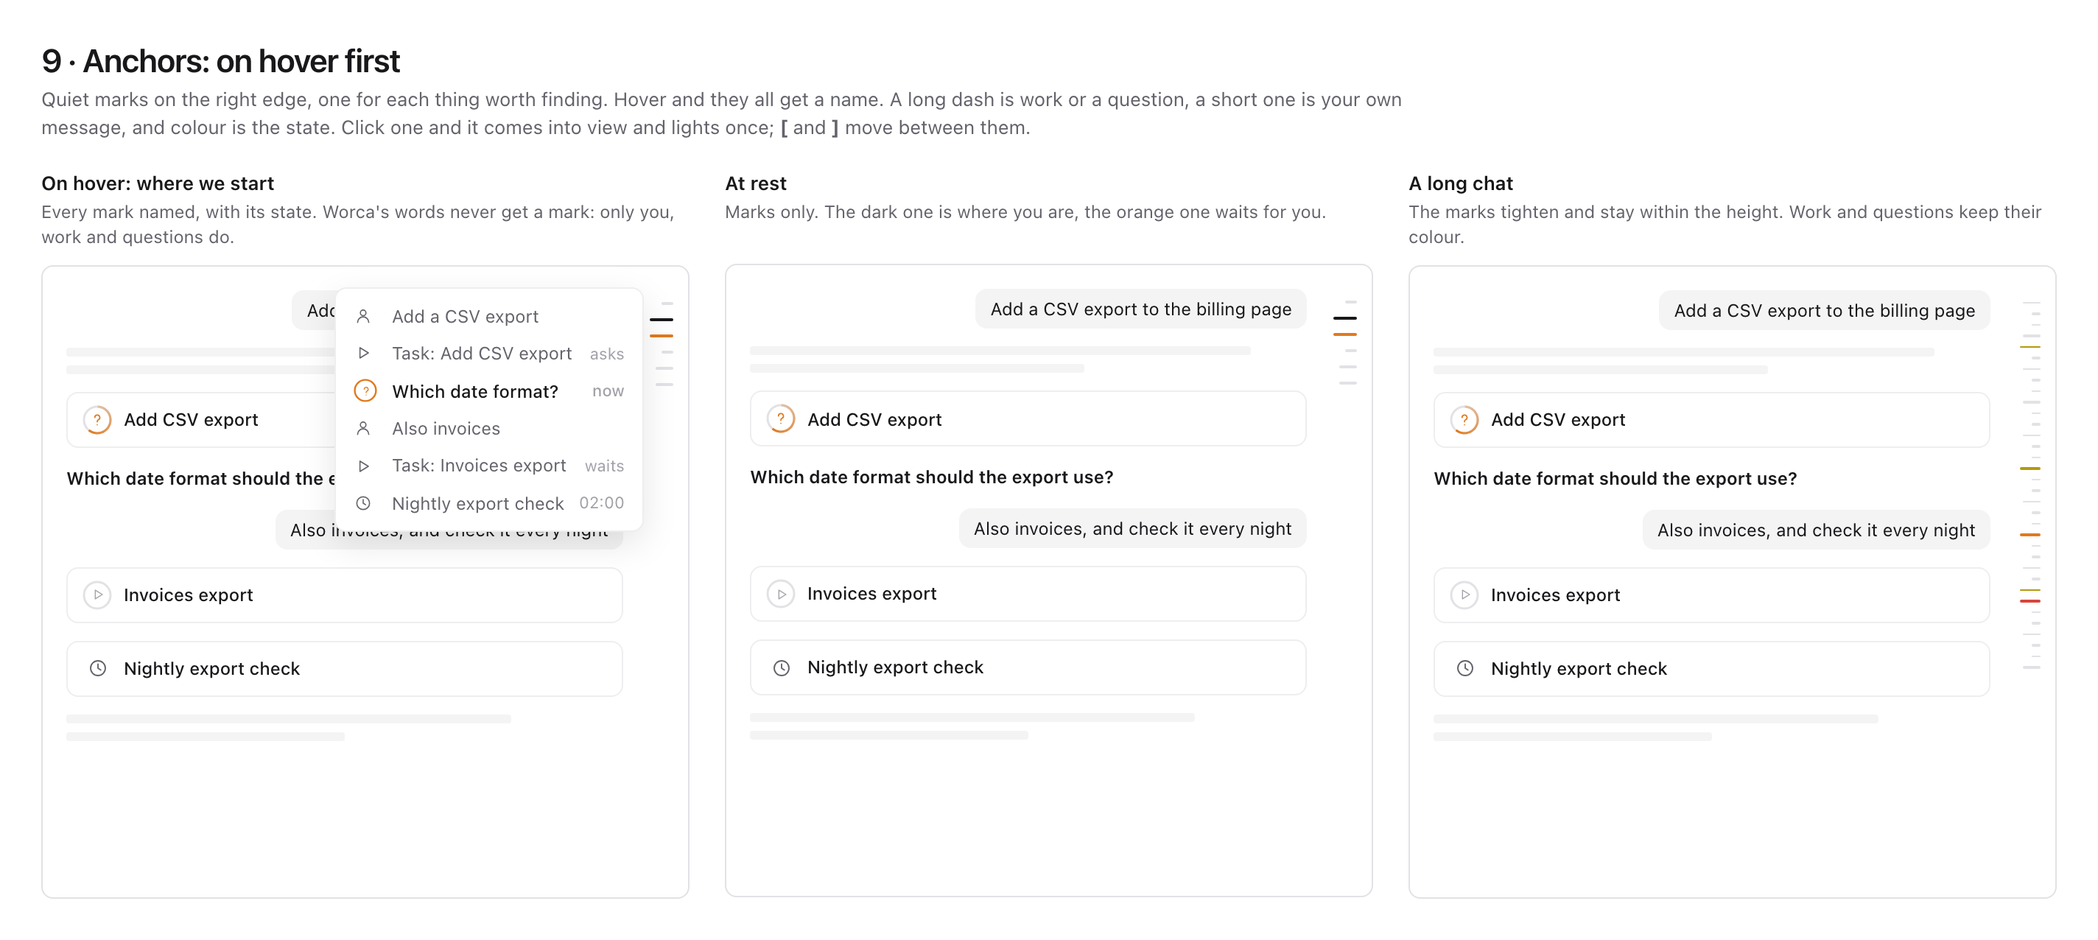
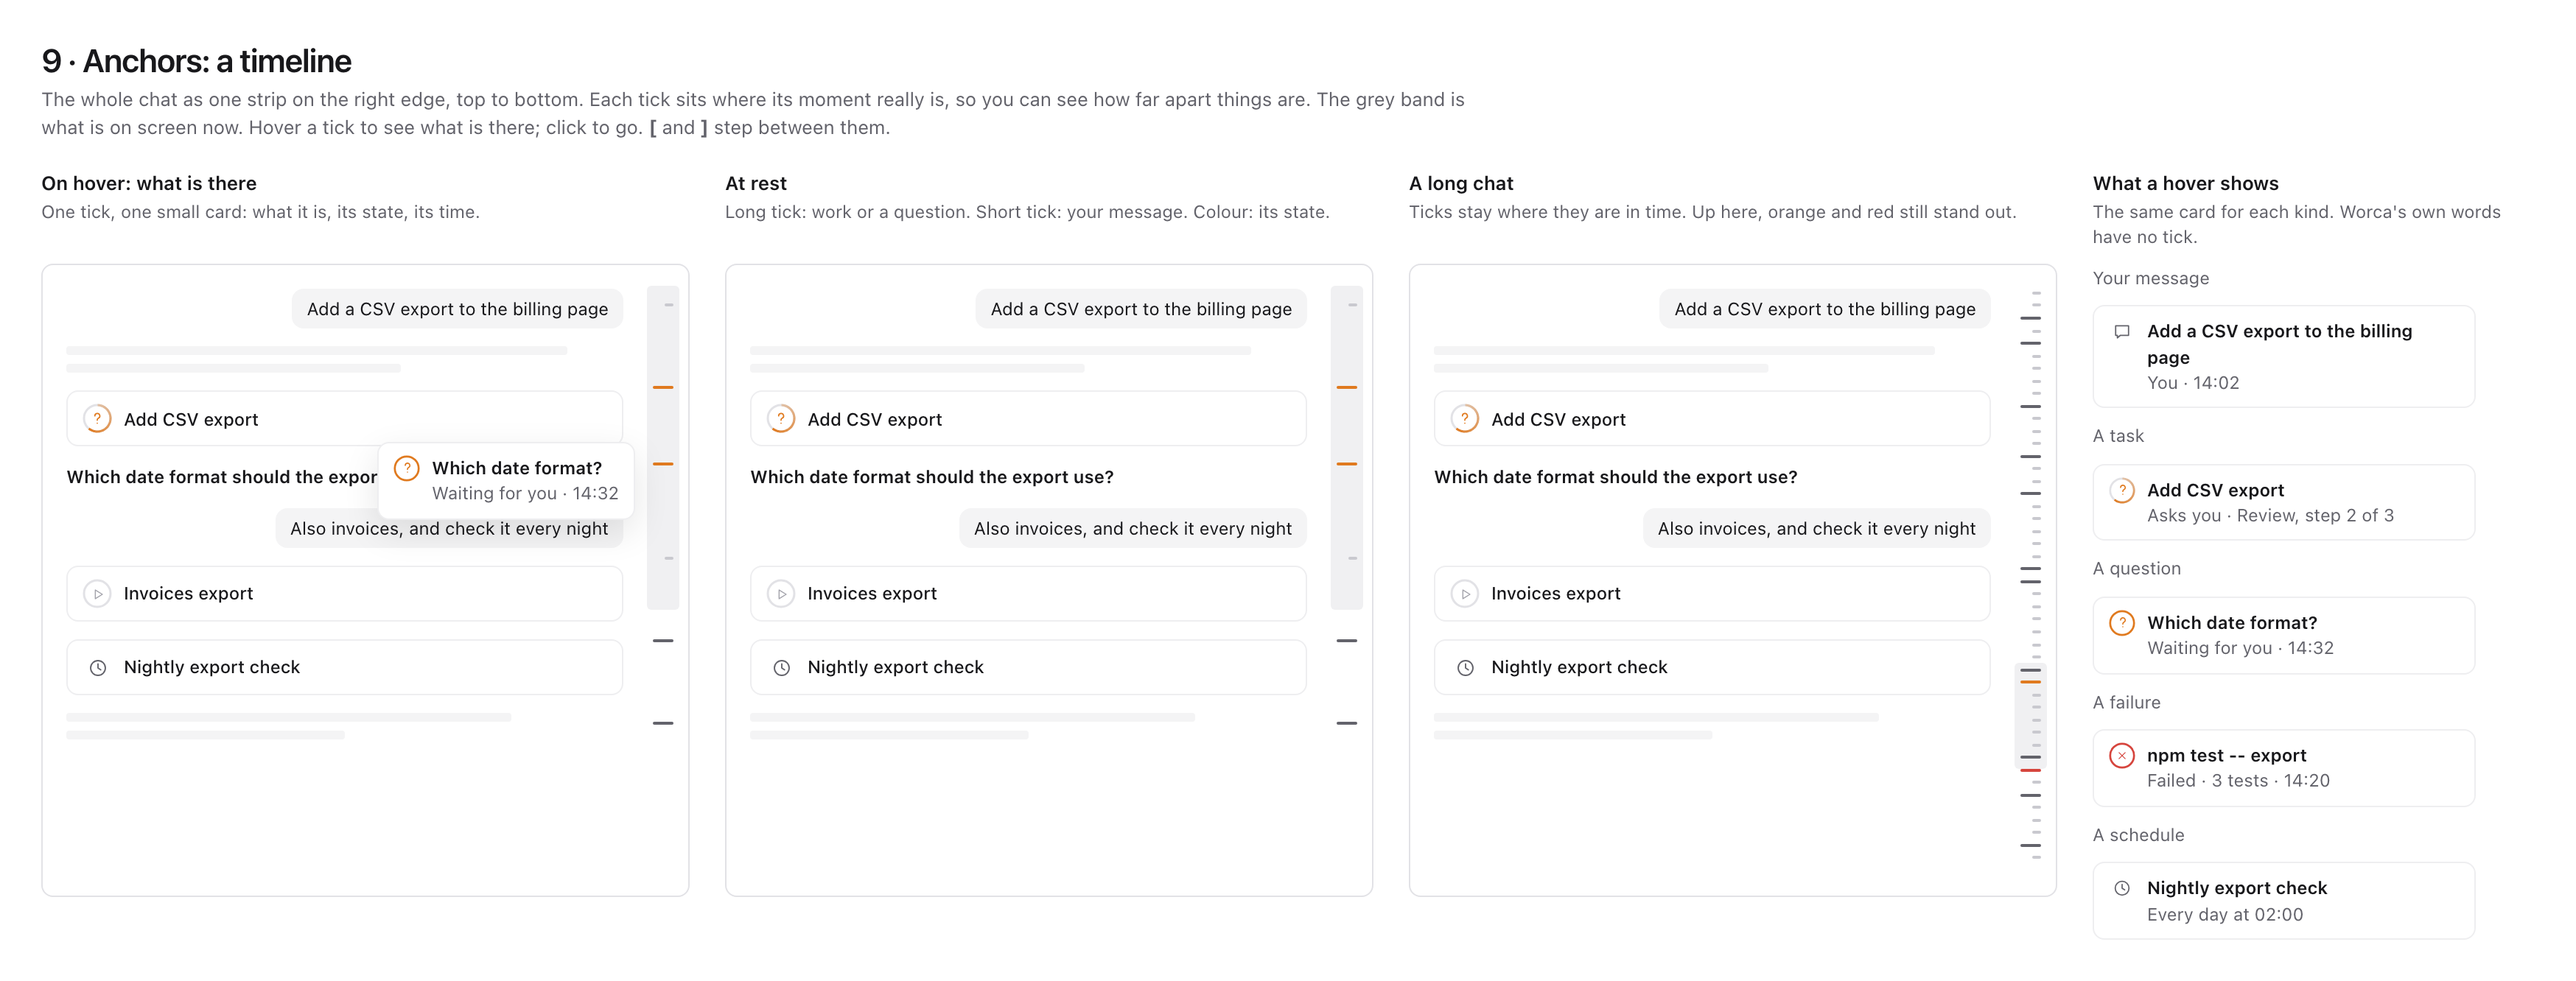
Shaping: anchors become a timeline, with a card on hover

diff --git a/plans/rail/mocks/wave-2/mock.js b/plans/rail/mocks/wave-2/mock.js
@@ -40,6 +40,9 @@ const chatBody=(cur)=>gh('Needs you',2)+row({mark:mark('chat','ask',-2),t:'Billi
  +row({mark:mark('chat'),t:'Compare two queue libraries',m:'No project',e:'Sat'});
 const stepper=(cur,col)=>`<div class="st">${['','','','',''].map((_,n)=>`<i ${n<=cur?`style="background:color-mix(in srgb, var(--${col==='a'?'amber':'peach'}) ${Math.round((.3+.7*(n+1)/(cur+1))*100)}%, var(--line-2))"`:''}></i>`).join('')}</div><div class="stl">${['Plan','Build','Review','PR','Merged'].map((s,n)=>n===cur?`<b>${s}</b>`:`<span>${s}</span>`).join('')}</div>`;
 const page=(t,s,b)=>`<h1 class="t">${t}</h1><p class="s">${s}</p>${b}`;
+
+const tl=(t,view,top=60,bottom=14)=>`<div class="tl" style="top:${top}px;bottom:${bottom}px"><span class="vw" style="top:${view[0]}%;height:${view[1]}%"></span>${t.map(([p,c])=>`<i class="${c}" style="top:${p}%"></i>`).join('')}</div>`;
+const hv=(top,right,m,t,d)=>`<div class="hv" style="top:${top}px;right:${right}px"><span>${m}</span><span><b>${t}</b><div>${d}</div></span></div>`;
 const M={};
 M[1]=()=>{const H=800;
  const homeBody=gh('Back to')+row({mark:mark('chat','ask',-2),t:'Billing CSV export',m:'billing-api · asks you',e:'14:32'})+row({mark:mark('workflow'),t:'Lean workflow',m:'Edited yesterday'})
@@ -51,8 +54,7 @@ M[1]=()=>{const H=800;
  return page('1 · One bar for every feature','Today: a places bar, plus a Chats column beside it. Here there is one bar, and Settings already works this way. The house at the top leads home; everything else behaves the same: head, what it shows, a list with groups, you.',
  `<div class="cols">`+col('Home','The house, pressed: where you were, then places',bar({solo:1,h:H,homeOn:1,title:'Worca',body:homeBody}))+col('Chat','Where you start. Opens here','<div>'+bar({solo:1,h:H,title:'Chat',act:'plus',sent:SA,body:chatBody(1)})+'</div>')+col('Settings','Unchanged, with the house for Back',bar({solo:1,h:H,title:'Settings',body:set}))+col('Schedules · Expert','Any list takes the same bar',bar({solo:1,h:H,title:'Schedules',act:'plus',sent:sent(['~Showing','all','~from','all projects','~by','next']),body:sch}))+`</div>`);};
 M[2]=()=>{
- const anchors=[['you','Add a CSV export',''],['run','Task: Add CSV export','asks'],['ask','Which date format?','now'],['you','Also invoices',''],['run','Task: Invoices export','waits'],['schedule','Nightly export check','02:00']];
- const an=`<div class="an"><i class="y"></i><i class="a"></i><i class="a cur" style="background:var(--amber);width:18px"></i><i class="y"></i><i></i><i></i></div><div class="ap">${anchors.map(a=>`<div class="ar ${a[0]==='ask'?'ask cur':''}">${a[0]==='you'?i('you',13):a[0]==='ask'?mark('chat','ask',-2,16):a[0]==='run'?i('run',13):i('schedule',13)}<span>${a[1]}</span><span class="en">${a[2]}</span></div>`).join('')}</div>`;
+ const an=tl([[3,'y'],[14,'a'],[30,'a'],[52,'y'],[66,'w'],[80,'w']],[0,62])+hv(150,34,mark('chat','ask',-2),'Which date format?','Add CSV export asks you · 14:32');
  const conv=`<div class="conv"><div class="col"><div class="ch"><span>billing-api</span>·<span class="lb">${i('tag',10)}hotfix</span><span class="lb">${i('tag',10)}billing</span><span class="lb" style="background:none;color:var(--ink-3)">${i('plus',10)}Label</span></div>
  <div class="you">Add a CSV export to the billing page</div>
  <div class="wo">I'll start a task on <b>billing-api</b>: plan, build and review, then a pull request into dev.</div>
@@ -62,7 +64,7 @@ M[2]=()=>{
  <div class="card"><div class="sl">${mark('run','wait',0)}<span class="sw" style="font-size:13px;font-weight:600;letter-spacing:0">Invoices export<span class="sd">Starts after Add CSV export</span></span><span class="btn2 q">${i('more',14)}</span></div></div>
  <div class="card"><div class="sl">${mark('schedule')}<span class="sw" style="font-size:13px;font-weight:600;letter-spacing:0">Nightly export check<span class="sd">Every day at 02:00 · Next in 11h</span></span><span class="btn2">Run now</span><span class="btn2 q">${i('more',14)}</span></div></div>
  </div></div><div class="dock"><div class="cmp">Ask Worca…<div class="cmpb">${i('plus',15)}<span>billing-api</span><span>Opus 5.5</span><span class="send">${i('up',14)}</span></div></div></div>`;
- return page('2 · Chat dispatches everything','Tasks and schedules live as cards in the conversation and as a rounded dependency tree in the bar: chat, its task, the task that waits on it. Marks on the right jump to any card or question; hovering names them.',
+ return page('2 · Chat dispatches everything','Tasks and schedules live as cards in the conversation and as a rounded dependency tree in the bar: chat, its task, the task that waits on it. The timeline on the right jumps to any card or question; hover a tick to see what is there.',
  `<div class="f" style="height:930px;width:1400px">`+bar({title:'Chat',act:'plus',sent:SA,body:chatBody(1)})+`<div class="mmain">`+topb(`Chat ${i('chevR',12)} <b>Billing CSV export</b>`)+conv+an+`</div></div>`);};
 M[3]=()=>{
  const st=[['Waiting','wait'],['Running','run'],['Needs you','ask'],['Failed','fail'],['Ready','ok'],['Merged','merged'],['Idle','idle']];
@@ -118,7 +120,7 @@ M[6]=()=>{
  <div class="card"><div class="ct">Stream the CSV export</div><div class="cp"><code>feat/stream-csv-export</code> into <code>dev</code> <span style="margin-left:6px">${git('branch')}</span></div><div class="sl">${mark('run','run',0)}<span class="sw">Working<span class="sd">Plan · step 1 of 2</span></span><span class="btn2">Pause</span><span class="btn2 q">${i('more',14)}</span></div>${stepper(0,'p')}<div style="margin-top:8px"><span class="lk">How it ran ›</span></div></div>
  ${wr(mark('run','run',-2,16),'<span class="qt">Following the task</span>','<span class="qt2">42s</span>')}
  </div></div><div class="dock"><div class="cmp">Ask Worca…<div class="cmpb">${i('plus',15)}<span>billing-api</span><span>Opus 5.5</span><span style="margin-left:auto">${i('mic',15)}</span><span class="send" style="margin-left:0"><span style="width:9px;height:9px;background:currentColor;border-radius:2px"></span></span></div></div></div>`;
- const an=`<div class="an"><i class="y"></i><i class="cur" style="background:#D6453D"></i><i></i><i class="y"></i><i class="p"></i></div>`;
+ const an=tl([[4,'y'],[16,'rd'],[58,'y'],[70,'p']],[0,100]);
  return page('6 · The conversation itself, in Rail','Everything Worca does sits on one rail: a mark on the left, one text edge. What it thinks and runs folds to one quiet line; a failure opens itself. Its words stay on the page, your words on the right, and work is a card. One action at a time: Send becomes Stop.',
  `<div class="f" style="height:1000px;width:1400px">`+bar({title:'Chat',act:'plus',sent:SA,body:chatBody(1)})+`<div class="mmain">`+topb(`Chat ${i('chevR',12)} <b>Billing CSV export</b>`)+conv+an+`</div></div>`);};
 
@@ -163,19 +165,19 @@ M[8]=()=>{
  ${gh('Previous 7 days',3,1)}${occ(mark('run','merged',5),'Check the export','Merged #1102 · $0.30',{g:'merged'})}${occ(mark('run','merged',5),'Check the export','Merged #1097 · $0.30',{g:'merged'})}<div class="more">Show 1 more</div>
  </div></div><div class="dock"><div class="cmp" style="max-width:600px">Ask about this schedule, or change it…<div class="cmpb"><span class="qt2">Goes to Billing CSV export</span><span class="send">${i('up',14)}</span></div></div></div>`;
  const nochat=gh('Needs you',1)+row({mark:mark('run','fail',2),t:'Check the export',m:'Nightly export check',g:'fail'})+gh('Next',2,1)+row({mark:mark('schedule'),t:'Nightly export check',m:'billing-api',e:'02:00',cur:1})+row({mark:mark('schedule'),t:'Weekly deps update',m:'worca-cc',e:'Mon'})+gh('Paused',1,1)+row({mark:mark('schedule','wait'),t:'Cost report',m:'No chat · Fridays'});
- return page('8 · A task or a schedule opens like a chat','The same page as a conversation: one reading column, marks on the right, the composer at the foot. Finished stages fold to one line and the live one is open. You still ask in Chat: the task itself never changes while it runs, and your question goes to its chat.',
- `<div class="cols"><div><p class="cap">A task, from its chat</p><p class="capm">The bar stays; the trail goes back through the chat. The marks are its stages.</p><div class="f" style="height:880px;width:1060px">`+bar({title:'Chat',act:'plus',sent:SA,body:chatBody(0)})+`<div class="mmain">`+topb(`Chat ${i('chevR',12)} Billing CSV export ${i('chevR',12)} <b>Add CSV export</b>`)+tp+anc(['cur','cur','a','','' ],74)+`</div></div></div>
- <div><p class="cap">A schedule · Expert</p><p class="capm">Each time it ran is a task, by day. The marks are the days; a failure opens itself.</p><div class="f" style="height:880px;width:1060px">`+bar({title:'Schedules',act:'plus',sent:sent(['~Showing','all','~from','all projects','~by','next']),body:nochat})+`<div class="mmain">`+topb(`Schedules ${i('chevR',12)} <b>Nightly export check</b>`)+sp+anc(['','rd','','',''],74)+`</div></div></div></div>`);};
+ return page('8 · A task or a schedule opens like a chat','The same page as a conversation: one reading column, the timeline on the right, the composer at the foot. Finished stages fold to one line and the live one is open. You still ask in Chat: the task itself never changes while it runs, and your question goes to its chat.',
+ `<div class="cols"><div><p class="cap">A task, from its chat</p><p class="capm">The bar stays; the trail goes back through the chat. Its timeline holds its stages.</p><div class="f" style="height:880px;width:1060px">`+bar({title:'Chat',act:'plus',sent:SA,body:chatBody(0)})+`<div class="mmain">`+topb(`Chat ${i('chevR',12)} Billing CSV export ${i('chevR',12)} <b>Add CSV export</b>`)+tp+tl([[4,'w'],[12,'w'],[20,'a'],[75,'q0'],[85,'q0']],[0,100])+`</div></div></div>
+ <div><p class="cap">A schedule · Expert</p><p class="capm">Each time it ran is a task, by day. Its timeline holds them; a failure opens itself.</p><div class="f" style="height:880px;width:1060px">`+bar({title:'Schedules',act:'plus',sent:sent(['~Showing','all','~from','all projects','~by','next']),body:nochat})+`<div class="mmain">`+topb(`Schedules ${i('chevR',12)} <b>Nightly export check</b>`)+sp+tl([[5,'w'],[28,'rd'],[62,'w'],[74,'w']],[0,100])+`</div></div></div></div>`);};
 M[9]=()=>{
  const line=(w=1)=>`<div class="fk" style="width:${w*100}%"></div>`;
- const body=`<div class="crop">${'<div class="fy">Add a CSV export to the billing page</div>'}<div class="fw">${line(.9)}${line(.6)}</div><div class="fc">${mark('run','ask',2)}<span>Add CSV export</span></div><div class="fq">Which date format should the export use?</div><div class="fy">Also invoices, and check it every night</div><div class="fc">${mark('run','wait',0)}<span>Invoices export</span></div><div class="fc">${mark('schedule')}<span>Nightly export check</span></div><div class="fw">${line(.8)}${line(.5)}</div></div>`;
- const list=[['you','Add a CSV export',''],['run','Task: Add CSV export','asks'],['ask','Which date format?','now'],['you','Also invoices',''],['run','Task: Invoices export','waits'],['schedule','Nightly export check','02:00']];
- const ap=`<div class="ap" style="top:14px;right:30px;width:210px">${list.map(a=>`<div class="ar ${a[0]==='ask'?'ask':''}">${a[0]==='you'?i('you',13):a[0]==='ask'?mark('chat','ask',-2,16):a[0]==='run'?i('run',13):i('schedule',13)}<span>${a[1]}</span><span class="en">${a[2]}</span></div>`).join('')}</div>`;
+ const body=`<div class="crop"><div class="fy">Add a CSV export to the billing page</div><div class="fw">${line(.9)}${line(.6)}</div><div class="fc">${mark('run','ask',2)}<span>Add CSV export</span></div><div class="fq">Which date format should the export use?</div><div class="fy">Also invoices, and check it every night</div><div class="fc">${mark('run','wait',0)}<span>Invoices export</span></div><div class="fc">${mark('schedule')}<span>Nightly export check</span></div><div class="fw">${line(.8)}${line(.5)}</div></div>`;
  const fr=(c,m,inner)=>`<div style="width:440px"><p class="cap">${c}</p><p class="capm" style="min-height:34px">${m}</p><div class="f" style="height:430px;width:440px"><div class="mmain" style="padding:16px 44px 0 16px">${body}${inner}</div></div></div>`;
- const longm=Array.from({length:34},(_,n)=>n%11===4?'p':n===21?'a':n===27?'rd':n%3?'y':'').map(x=>`<i class="${x} tight"></i>`).join('');
- const bb=gh('Needs you',1)+row({mark:mark('chat','ask',-2),t:'Billing CSV export',m:'billing-api',e:'14:32',cur:1})+kids([{mark:mark('run','ask',2),t:'Add CSV export',g:'pr'},{mark:mark('chat','ask',-2,16),t:'Which date format?'},{mark:i('you',13),t:'Also invoices'},{mark:mark('run','wait',0),t:'Invoices export'},{mark:mark('schedule'),t:'Nightly export check',e:'02:00'}]);
- return page('9 · Anchors: on hover first','Quiet marks on the right edge, one for each thing worth finding. Hover and they all get a name. A long dash is work or a question, a short one is your own message, and colour is the state. Click one and it comes into view and lights once; <b>[</b> and <b>]</b> move between them.',
- `<div class="cols">`+fr('On hover: where we start','Every mark named, with its state. Worca\'s words never get a mark: only you, work and questions do.',anc(['y','cur','a','y','','']).replace('top:70px','top:24px')+ap)+fr('At rest','Marks only. The dark one is where you are, the orange one waits for you.',anc(['y','cur','a','y','','']).replace('top:70px','top:24px'))+fr('A long chat','The marks tighten and stay within the height. Work and questions keep their colour.',`<div class="an" style="top:24px;gap:6px">${longm}</div>`)+`</div>`);};
+ const T=[[3,'y'],[17,'a'],[30,'a'],[46,'y'],[60,'w'],[74,'w']];
+ const lng=[];for(let n=0;n<46;n++)lng.push([1+n*2.13,n===31?'a':n===38?'rd':n%9===4?'w':n%7===2?'w':'y']);
+ const faces=[['Your message',mark('chat','idle',-1,18),'Add a CSV export to the billing page','You · 14:02'],['A task',mark('run','ask',2,18),'Add CSV export','Asks you · Review, step 2 of 3'],['A question',mark('chat','ask',-2,18),'Which date format?','Waiting for you · 14:32'],['A failure',mark('chat','fail',-2,18),'npm test -- export','Failed · 3 tests · 14:20'],['A schedule',mark('schedule','idle',-1,18),'Nightly export check','Every day at 02:00']];
+ const card=(f)=>`<div class="hv st"><span>${f[1]}</span><span><b>${f[2]}</b><div>${f[3]}</div></span></div>`;
+ return page('9 · Anchors: a timeline','The whole chat as one strip on the right edge, top to bottom. Each tick sits where its moment really is, so you can see how far apart things are. The grey band is what is on screen now. Hover a tick to see what is there; click to go. <b>[</b> and <b>]</b> step between them.',
+ `<div class="cols">`+fr('On hover: what is there','One tick, one small card: what it is, its state, its time.',tl(T,[0,55],14,14)+hv(120,36,mark('chat','ask',-2,18),'Which date format?','Waiting for you · 14:32'))+fr('At rest','Long tick: work or a question. Short tick: your message. Colour: its state.',tl(T,[0,55],14,14))+fr('A long chat','Ticks stay where they are in time. Up here, orange and red still stand out.',tl(lng,[64,18],14,14))+`<div style="width:300px"><p class="cap">What a hover shows</p><p class="capm" style="min-height:34px">The same card for each kind. Worca's own words have no tick.</p><div style="display:flex;flex-direction:column;gap:10px">${faces.map(f=>`<div><p class="capm" style="margin:0 0 4px;min-height:0">${f[0]}</p>${card(f)}</div>`).join('')}</div></div></div>`);};
 M[10]=()=>{
  const R=(ic,w,how,tip,n)=>`<tr><td class="ci">${ic}</td><td class="cw">${w}</td><td class="ch2">${how}</td><td class="ct2">${tip}</td></tr>`;
  const H=(t)=>`<tr><td colspan="4" class="cg">${t}</td></tr>`;
@@ -219,7 +221,7 @@ M[10]=()=>{
  +one(mark('run','ask',2),'The bar','The task and its chat turn orange with a ?, and rise to Needs you')
  +one(`<span class="btn2" style="height:22px">Asks you below</span>`,'The card','Says so, and has no answer of its own')
  +one('<b style="font-weight:600">Which format?</b>','The conversation','The question and its options, as Worca\'s own turn: the one place you answer')
- +one('<i style="display:block;width:18px;height:2px;background:var(--amber)"></i>','The anchors','An orange mark; <b>]</b> takes you there')
+ +one('<i style="display:block;width:18px;height:2px;background:var(--amber)"></i>','The timeline','An orange tick; <b>]</b> takes you there')
  +one(`<span class="tb">${i('pulse',15)}Pulse <span class="bdg">2</span></span>`,'Pulse','Its count, and a row that lands on the question')
  +`</div>`;
  return page('10 · Every status, from the library','All 19 of Rail\'s status words, no new ones. The shape says the type until the state matters more: then a question, a problem, a pause or a stop takes the centre, and its row and tree still say what it is. Hover always gives the word and the reason.',

diff --git a/plans/rail/mocks/wave-2/mock.css b/plans/rail/mocks/wave-2/mock.css
@@ -128,3 +128,5 @@ table.mx{border-collapse:collapse;font-size:12px;} .mx th{font-weight:400;color:
 .stt{border-collapse:collapse;width:100%;font-size:12.5px;} .stt td{padding:7px 8px;border-top:1px solid var(--line);vertical-align:middle;} .stt .ci{width:34px;padding-left:0;} .stt .cw{font-weight:500;width:220px;} .stt .ch2{color:var(--ink-2);width:220px;} .stt .ch2 b{color:var(--ink);font-weight:600;} .stt .ct2{color:var(--ink-3);} .stt .cg{font:600 15px/1.3 var(--sans);letter-spacing:-.01em;padding:14px 0 6px;border-top:0;}
 .oqs{display:grid;grid-template-columns:repeat(5,1fr);gap:16px;} .oq{border-top:1px solid var(--line);padding-top:10px;font-size:12px;} .oq>span{display:flex;align-items:center;min-height:24px;margin-bottom:6px;} .oq>b{font-weight:600;display:block;} .oq p{margin:2px 0 0;color:var(--ink-2);}
 .stc{display:flex;flex-direction:column;gap:13px;} .stb{padding:6px;font-size:13px;line-height:1.5;color:var(--ink-2);} .pst{flex:none;display:flex;gap:2px;padding:6px 8px;border-top:1px solid var(--line);} .nt .ntm{flex:none;display:inline-flex;margin:1px 0 0 2px;}
+.tl{position:absolute;right:6px;width:22px;z-index:3;} .tl .vw{position:absolute;right:0;left:0;background:var(--hover);border-radius:3px;} .tl i{position:absolute;right:4px;height:2px;width:10px;background:var(--line-2);border-radius:1px;} .tl i.y{width:6px;background:var(--step-done);} .tl i.w{width:14px;background:var(--ink-2);} .tl i.q0{width:14px;background:var(--line-2);} .tl i.a{width:14px;background:var(--amber);} .tl i.p{width:14px;background:var(--peach);} .tl i.rd{width:14px;background:#D6453D;}
+.hv{position:absolute;z-index:4;display:flex;gap:8px;align-items:flex-start;background:var(--float);border:1px solid var(--float-line);border-radius:8px;box-shadow:0 8px 24px rgb(0 0 0/.1);padding:8px 10px;font-size:12px;max-width:260px;} .hv b{font-weight:600;} .hv div{color:var(--ink-2);} .hv.st{position:relative;box-shadow:none;}

diff --git a/plans/rail/wave-2.md b/plans/rail/wave-2.md
@@ -71,7 +71,7 @@ Mocks: `mocks/wave-2/` (`node plans/rail/mocks/wave-2/render.mjs`). These are di
 | **The conversation on one rail;** thinking and commands fold, a failure opens itself | 6 |
 | **No New run button or dialog:** the composer says Ask, Task or Schedule, you pick it, and every New run function has a place | 7 |
 | **A task or a schedule opens like a chat:** a reading column, marks, a composer that goes to its chat. Pulse stays | 8 |
-| **Anchors:** on hover first: marks on the right edge, named on hover, `[` and `]` between them | 9 |
+| **Anchors are a timeline:** the whole chat as a strip on the right edge, each tick where its moment is, the band showing what is on screen. Hover a tick to see what is there; `[` and `]` step between them | 9 |
 | Chat home's line always names Worca: "What's next for Worca?" | 5 |
 | **Every feature sits under the house:** inside Chat, everything is about Chat. No row of places in the bar | 1, 12 |
 | **Asking about a task or schedule with no chat** starts a new chat and links it | 8 |
